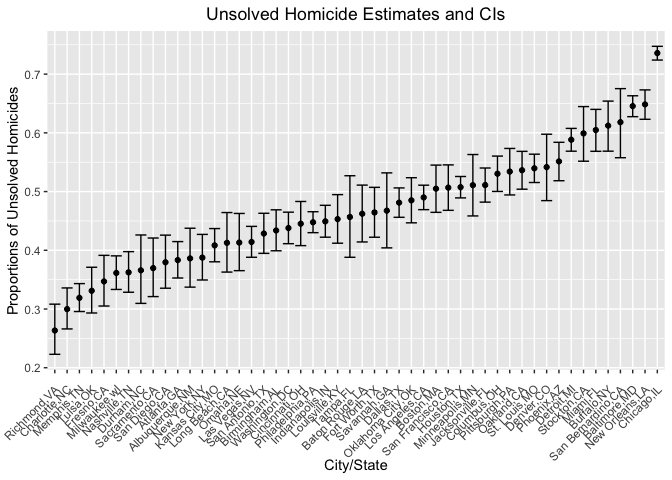
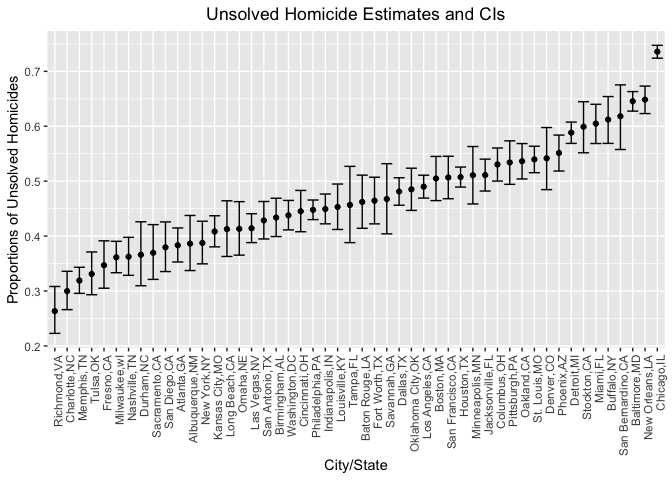
problem 3 update .rmd and .md with some plots...

diff --git a/p8105_hw5_fy2297.md b/p8105_hw5_fy2297.md
@@ -29,6 +29,7 @@ library(rvest)
 ``` r
 library(httr)
 library(purrr)
+library(patchwork)
 ```
 
 # Problem 1
@@ -115,7 +116,7 @@ test_stats_all %>%
   mutate(city_state = fct_reorder(city_state, estimate)) %>% 
   ggplot(aes(x = city_state, y = estimate)) + geom_point() + geom_errorbar(aes(ymin = conf.low, ymax = conf.high)) +
   labs(title = "Unsolved Homicide Estimates and CIs",x = "City/State", y = "Proportions of Unsolved Homicides") +
-  theme(axis.text.x = element_text(angle = 45, vjust = 0.9, hjust = 1)) +
+  theme(axis.text.x = element_text(angle = 90, vjust = 0.9, hjust = 1)) +
   theme(plot.title = element_text(hjust = 0.5)) 
 ```
 
@@ -156,18 +157,18 @@ model_test
 ```
 
     ## # A tibble: 10 × 2
-    ##    mu_hat p_value
-    ##     <dbl>   <dbl>
-    ##  1 -0.171  0.826 
-    ##  2 -0.136  0.882 
-    ##  3 -0.267  0.747 
-    ##  4 -0.257  0.796 
-    ##  5 -0.523  0.609 
-    ##  6 -0.339  0.753 
-    ##  7  0.244  0.809 
-    ##  8  0.530  0.592 
-    ##  9 -0.332  0.737 
-    ## 10  1.99   0.0231
+    ##     mu_hat p_value
+    ##      <dbl>   <dbl>
+    ##  1  0.602   0.575 
+    ##  2 -1.56    0.0638
+    ##  3  0.129   0.887 
+    ##  4 -0.410   0.682 
+    ##  5  0.424   0.549 
+    ##  6  1.56    0.0614
+    ##  7 -0.0740  0.932 
+    ##  8 -0.881   0.365 
+    ##  9  0.0985  0.917 
+    ## 10  0.846   0.420
 
 ``` r
 # repeat for different mu
@@ -206,7 +207,42 @@ plot_1
 ```
 
 ![](p8105_hw5_fy2297_files/figure-gfm/unnamed-chunk-10-1.png)<!-- -->
+description: From the plot, there is a general increasing trend, which
+means as the effect size increases, the power also increases.
 
 ``` r
-# make a second plot
+# make other plots
+plot_2 =
+  diff_mu_df %>% 
+  group_by(mu_list) %>% 
+  summarize(
+    ave_mu_hat = mean(mu_hat)
+  ) %>% 
+  ggplot(aes(x = mu_list, y = ave_mu_hat)) + geom_point() + geom_line()+
+  labs(title = "True mu vs Average mu (all)",x = "True Value of mu", y = "Average Value of mu") +
+  theme(plot.title = element_text(hjust = 0.5)) 
 ```
+
+``` r
+plot_3  = 
+  diff_mu_df %>% 
+  filter(p_value < 0.05) %>% 
+  group_by(mu_list) %>% 
+  summarize(
+    ave_mu_hat = mean(mu_hat)
+  ) %>% 
+  ggplot(aes(x = mu_list, y = ave_mu_hat)) + geom_point() + geom_line()+
+  labs(title = "True mu vs Average mu (rejected)",x = "True Value of mu", y = "Average Value of mu") +
+  theme(plot.title = element_text(hjust = 0.5)) 
+```
+
+``` r
+plot_2 + plot_3
+```
+
+![](p8105_hw5_fy2297_files/figure-gfm/unnamed-chunk-13-1.png)<!-- -->
+description: from the right plot (for only rejected ones), as true value
+of mu increases, the average value of mu get closer to the true value,
+but when effect size is small, there are some deviations between average
+value and true value of mu because the power increases with the increase
+in effect size.
